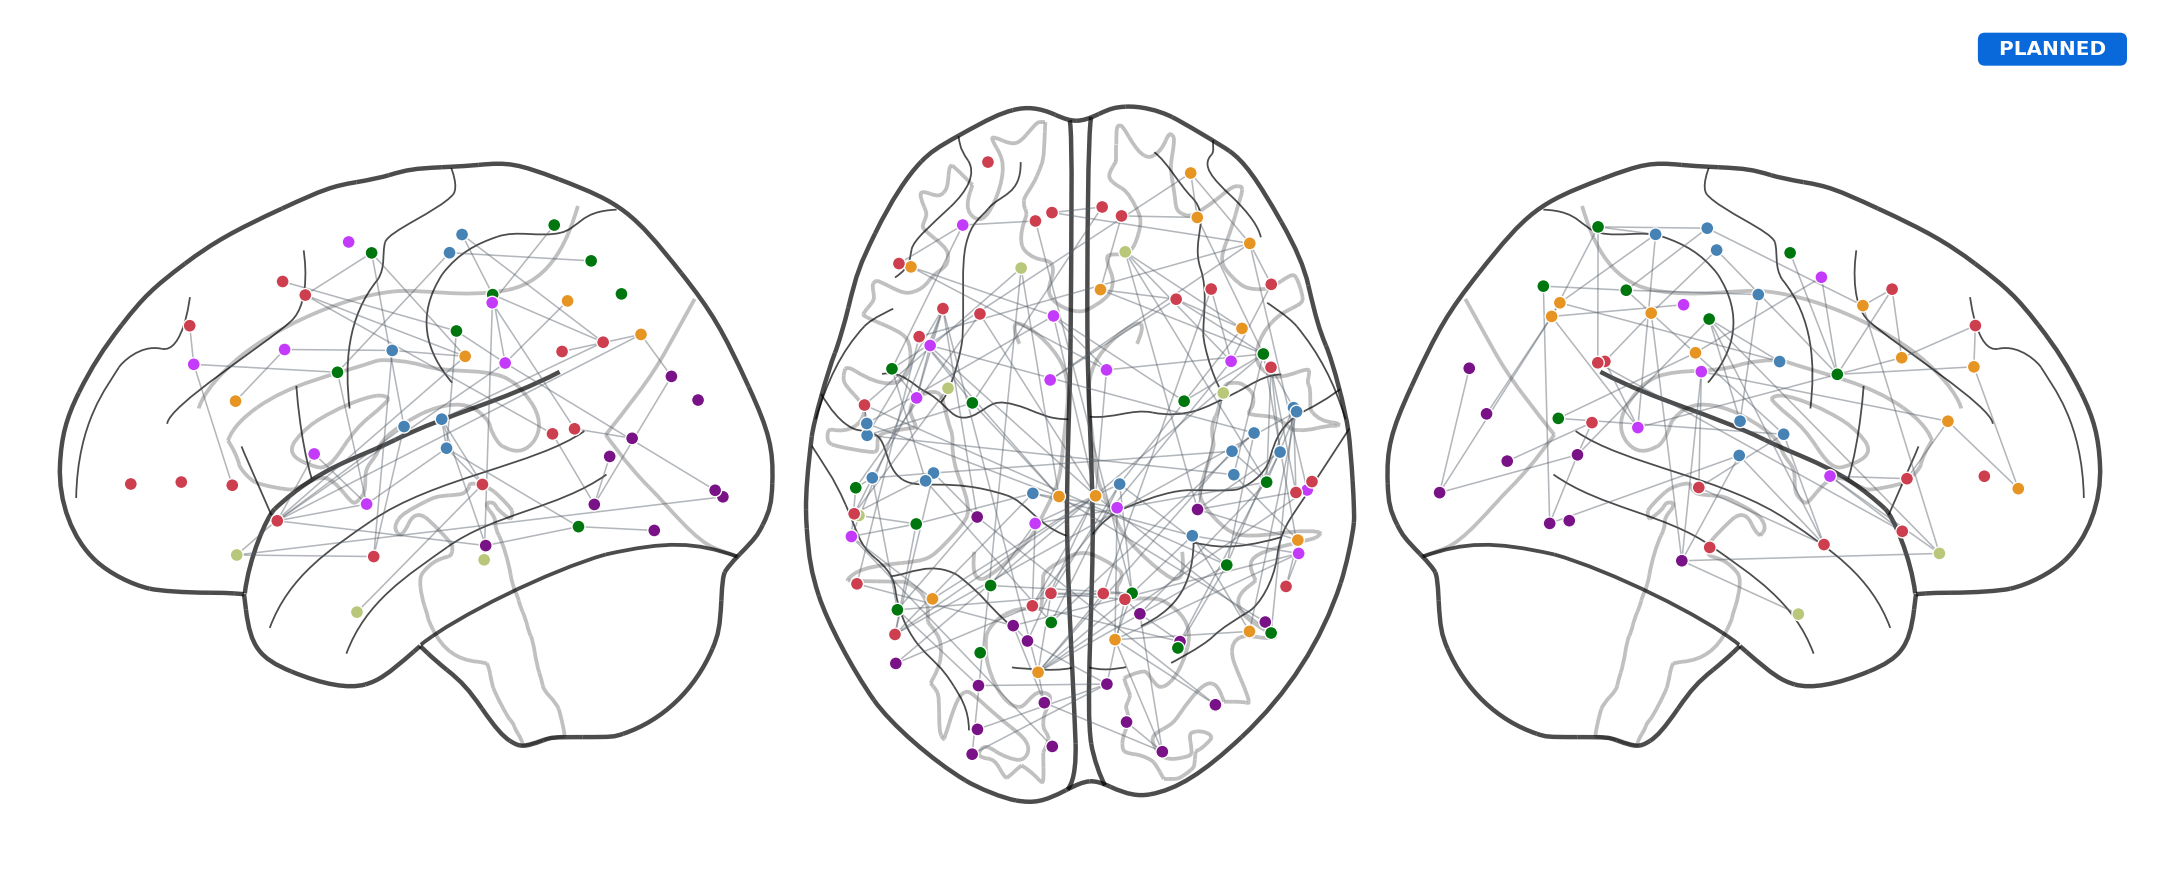
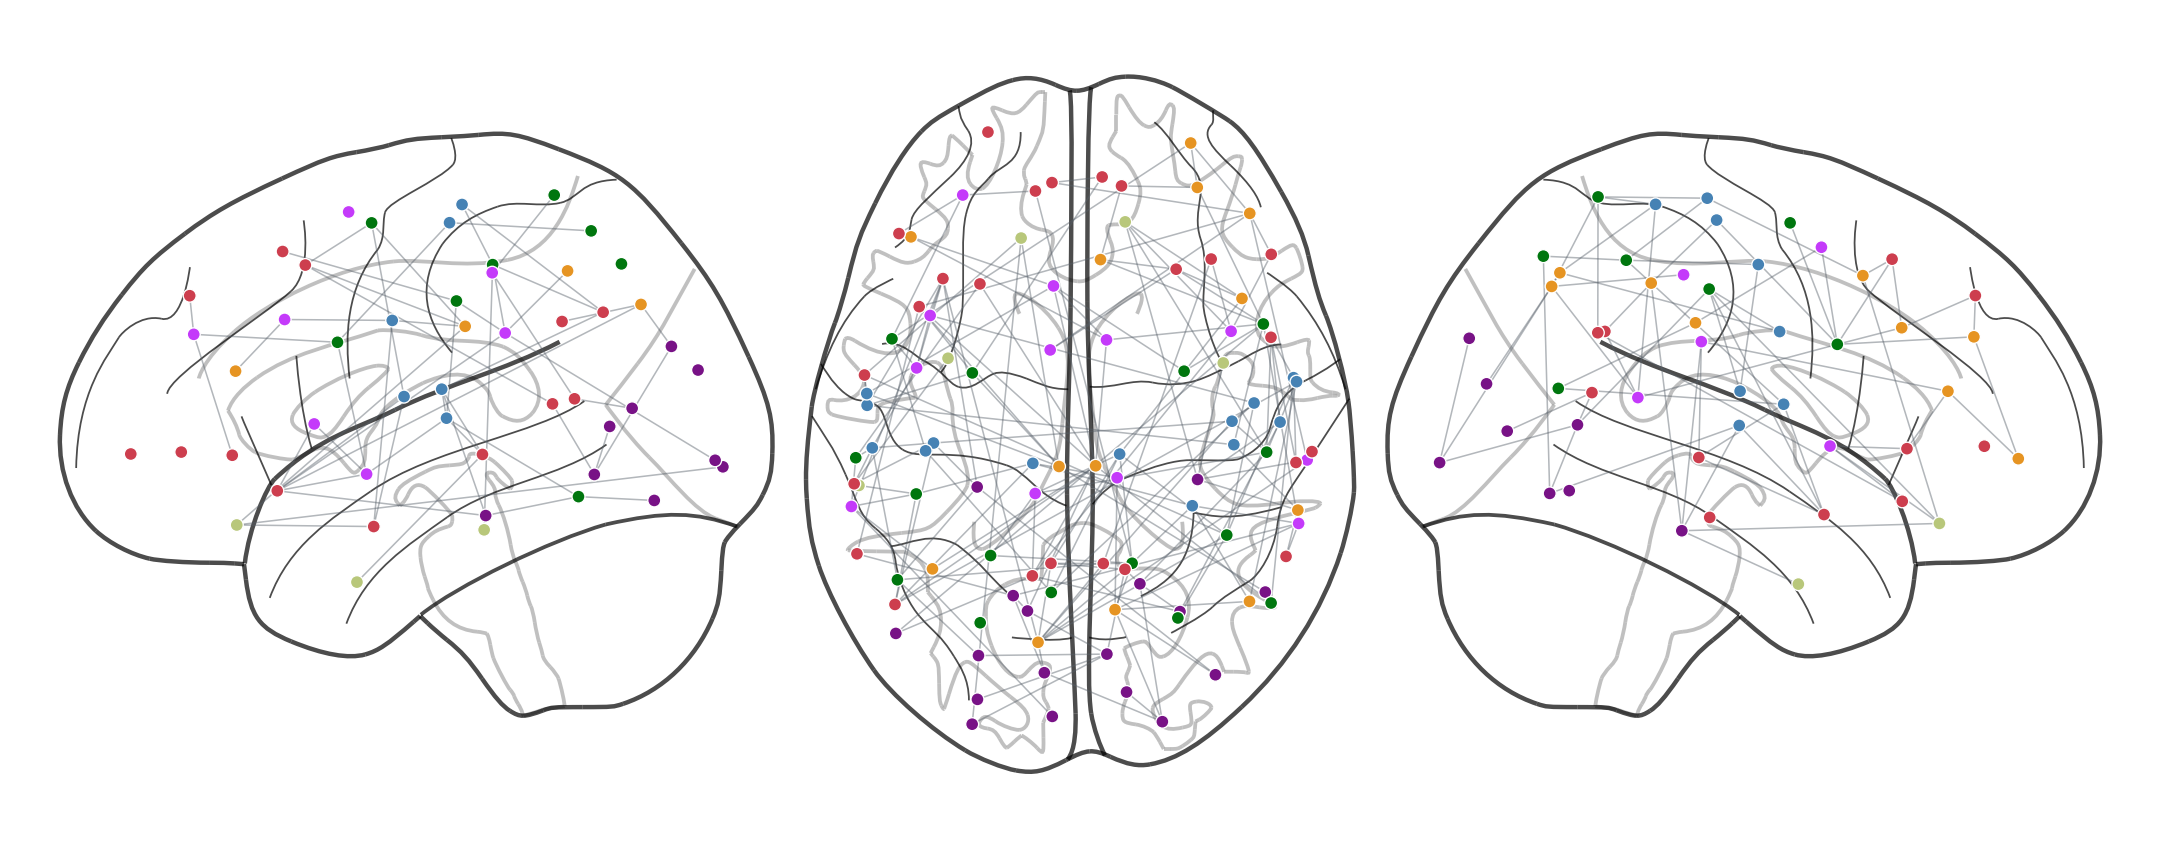
Figures: drop the Measured/Planned/Illustration tags (#7)

diff --git a/make_figures.py b/make_figures.py
@@ -1,8 +1,6 @@
 """Draw the README figures into docs/figures/.
 
-Every figure is simplified on purpose, the way a textbook picture is. Each one is badged
-Measured (drawn from this repository's results), Planned (the roadmap's brain mapping) or
-Illustration (a concept sketch), and the README says what each simplifies.
+Every figure is simplified on purpose, the way a textbook picture is.
 
     python make_figures.py                    # all figures
     python make_figures.py --only brain wiring
@@ -61,7 +59,6 @@ NETWORKS = {
 INK = "#1f2328"
 MUTED = "#6e7781"
 PANEL = "#ffffff"
-BADGE = {"Measured": "#1a7f37", "Planned": "#0969da", "Illustration": "#8250df"}
 
 plt.rcParams.update(
     {
@@ -81,20 +78,9 @@ plt.rcParams.update(
 # --------------------------------------------------------------------------- helpers
 
 
-def badge(fig, kind: str) -> None:
-    """Mark the figure Measured, Planned or Illustration; save() pins it to the drawing's top-right corner."""
-    fig._semmn_badge = kind
-
-
 def save(fig, name: str) -> None:
     OUT.mkdir(parents=True, exist_ok=True)
     path = OUT / f"{name}.png"
-    kind = getattr(fig, "_semmn_badge", None)
-    if kind:
-        bb = fig.get_tightbbox(fig.canvas.get_renderer())  # inches, content only
-        w, h = fig.get_size_inches()
-        fig.text(bb.x1 / w, bb.y1 / h + 0.012, f"  {kind.upper()}  ", ha="right", va="bottom", fontsize=9,
-                 fontweight="bold", color="white", bbox=dict(boxstyle="round,pad=0.35", fc=BADGE[kind], ec="none"))
     fig.savefig(path, dpi=DPI, bbox_inches="tight", pad_inches=0.25)
     plt.close(fig)
     print(f"wrote {path.relative_to(ROOT)} ({path.stat().st_size // 1024} KB)")
@@ -141,7 +127,6 @@ def scalp_xy(name: str) -> np.ndarray:
 
 def fig_big_idea() -> None:
     fig = plt.figure(figsize=(14, 3.9))
-    badge(fig, "Illustration")
     ax = fig.add_axes([0.01, 0.0, 0.98, 0.84])
     ax.set_xlim(0, 14)
     ax.set_ylim(0.1, 3.25)
@@ -242,7 +227,6 @@ def fig_brain(atlas) -> None:
     cmap = ListedColormap([NETWORKS[k][1] for k in keys])
 
     fig = plt.figure(figsize=(13, 7.4))
-    badge(fig, "Planned")
     views = [("left", "lateral", "Left side"), ("right", "lateral", "Right side"),
              ("left", "medial", "Left, inner face"), ("right", "medial", "Right, inner face")]
     for k, (hemi, view, name) in enumerate(views):
@@ -291,7 +275,6 @@ def fig_wiring(atlas) -> None:
     node_colors = [NETWORKS[n][1] for n in nets]
 
     fig = plt.figure(figsize=(13, 5.6))
-    badge(fig, "Planned")
     ax = fig.add_axes([0.0, 0.0, 1.0, 0.86])
     plotting.plot_connectome(adj, coords, node_color=node_colors, node_size=34, display_mode="lzr",
                              edge_kwargs={"color": "#57606a", "linewidth": 0.7, "alpha": 0.45},
@@ -317,7 +300,6 @@ def fig_electrodes(atlas) -> None:
     sizes = [26] * n_par + [70] * len(elec)
 
     fig = plt.figure(figsize=(13, 5.6))
-    badge(fig, "Illustration")
     ax = fig.add_axes([0.0, 0.0, 1.0, 0.86])
     plotting.plot_connectome(adj, all_nodes, node_color=colors, node_size=sizes, display_mode="lzr",
                              edge_cmap="Greys", edge_vmin=0, edge_vmax=0.8,
@@ -356,7 +338,6 @@ def fig_headset() -> None:
     gz[np.hypot(gx, gy) > 1.0] = np.nan
 
     fig = plt.figure(figsize=(13, 5.8))
-    badge(fig, "Measured")
     for k, (mname, label) in enumerate([("biosemi128", "Lab cap, 128 electrodes"),
                                          ("cyton_daisy16", "Starter headset, 16"),
                                          ("cyton8", "Starter headset, 8")]):
@@ -400,7 +381,6 @@ def fig_n400() -> None:
             for m, _ in order}
 
     fig = plt.figure(figsize=(13, 5.4))
-    badge(fig, "Measured")
     ax = fig.add_axes([0.06, 0.13, 0.42, 0.66])
     t = np.linspace(-0.1, 0.9, 400)
     expected = -0.15 * np.exp(-((t - 0.1) / 0.04) ** 2) + 0.3 * np.exp(-((t - 0.2) / 0.06) ** 2)
@@ -454,7 +434,6 @@ def fig_meaning_map() -> None:
     rank = surpr.argsort().argsort() / (len(surpr) - 1)  # colour by rank so the scale is even
 
     fig = plt.figure(figsize=(13, 6.2))
-    badge(fig, "Measured")
     ax = fig.add_axes([0.04, 0.06, 0.54, 0.78])
     from scipy.stats import gaussian_kde
 
@@ -490,7 +469,6 @@ def _summary_gain() -> dict[str, tuple[float, str]]:
 def fig_scoreboard() -> None:
     gain = _summary_gain()
     fig = plt.figure(figsize=(13, 5.6))
-    badge(fig, "Measured")
 
     ax = fig.add_axes([0.17, 0.2, 0.3, 0.56])
     order = [("biosemi128", "Lab cap 128"), ("cyton_daisy16", "Starter 16"), ("unicorn8", "Starter 8 (Unicorn)"),
